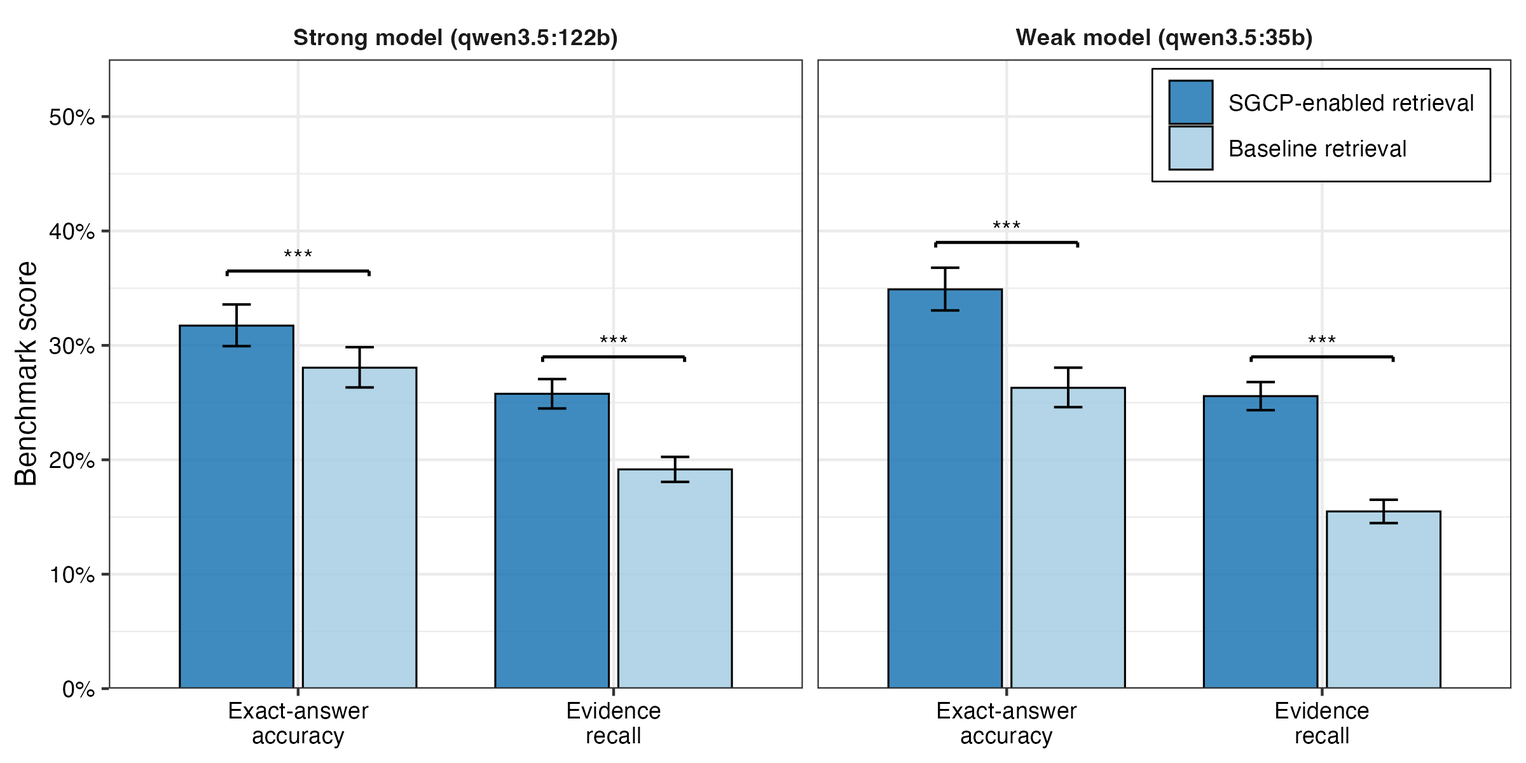
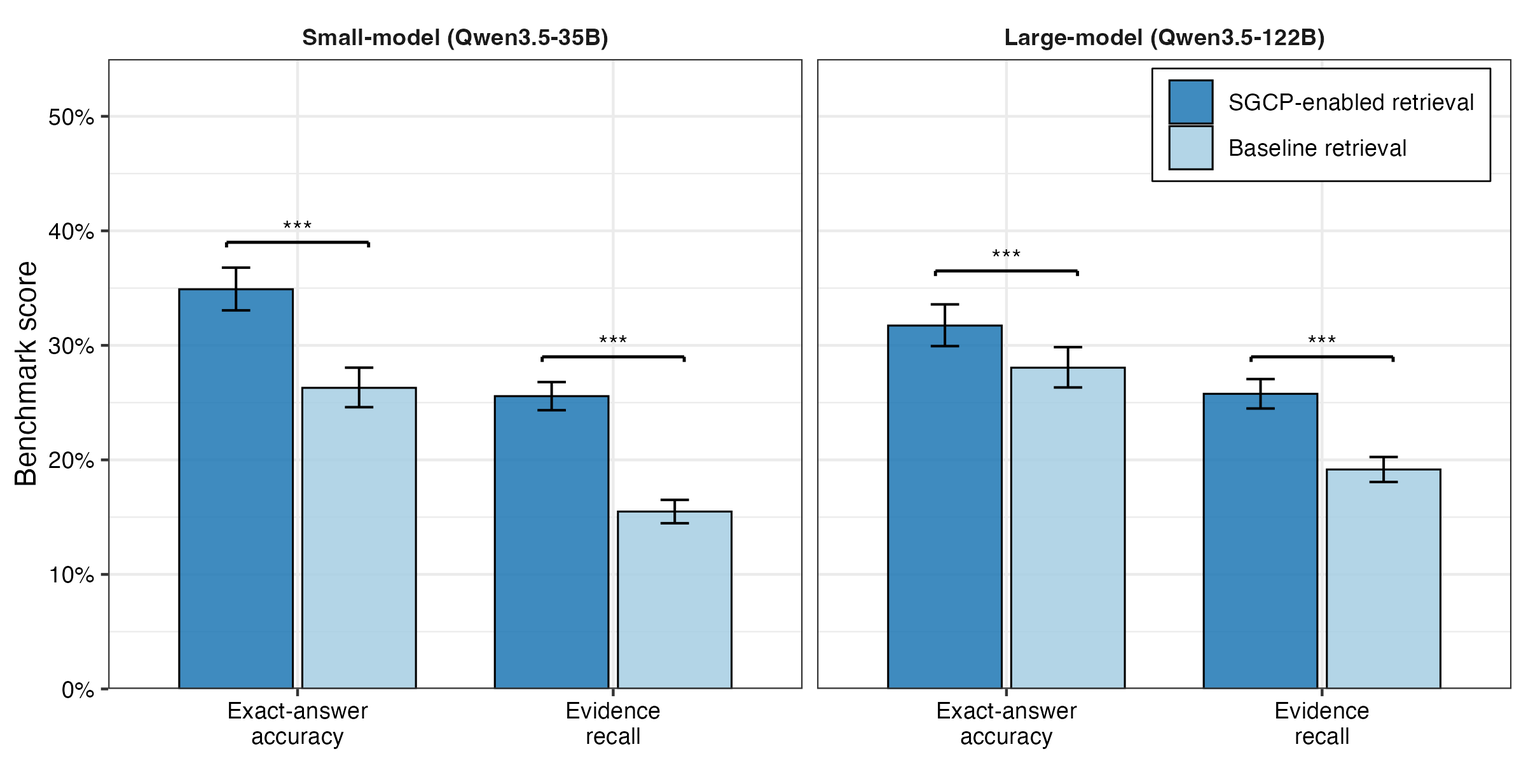
Align benchmark labels with manuscript terminology (#57)
Constraint: Preserve internal condition keys and artifact paths for reproducibility.
Rejected: Rename DTH identifiers and files | Existing benchmark references depend on them.
Confidence: high
Scope-risk: moderate
Directive: Regenerate and commit synchronized figure artifacts when changing display labels.
Tested: R parse checks; SVG XML validation; PNG integrity checks; git diff --check.
Not-tested: Full benchmark figure regeneration from raw inputs.

diff --git a/benchmarks/dth/results/dth_yes_no_qwen397b_cloud_methods_results.md b/benchmarks/dth/results/dth_yes_no_qwen397b_cloud_methods_results.md
@@ -1,10 +1,10 @@
 ---
 academic_writer_brief:
   section_scope: Methods, Results, and Discussion
-  target_use: manuscript draft for DTH activation benchmarking
+  target_use: manuscript draft for TRG activation benchmarking
   disease: breast cancer
   benchmark_model: qwen3.5:397b-cloud
-  benchmark_conditions: DTH-guided (DTH_yes) vs Baseline (DTH_no)
+  benchmark_conditions: TRG-guided (DTH_yes) vs Baseline (DTH_no)
   valid_runs_per_condition: 20
   judge_models:
     - openai:gpt-5.4
@@ -30,25 +30,25 @@ run_reference_layers:
 approval_status: direct_draft_requested_by_user
 ---
 
-# DTH Skill Activation Benchmark: Methods, Results, and Discussion Draft
+# Target Recommendation Guidance Activation Benchmark: Methods, Results, and Discussion Draft
 
 ## Methods
 
-### Breast cancer drug-target hypothesis-generation benchmark
+### Breast cancer follow-up recommendation benchmark
 
-We evaluated whether explicit activation of a drug-target-hypothesis (DTH) interpretation skill improved hypothesis-generation quality in a breast cancer drug-target assessment workflow. The benchmark used a fixed breast cancer evidence package containing prioritized target candidates, ligand-receptor candidates, malignant-cell pair evidence, gene-level target evidence, Open Targets target-disease evidence, known-drug annotations, and hypothesis-validation metadata. The featured target set used by the hypothesis writer comprised ERBB3, EPHB4, ERBB2, INSR, EFNB2, NECTIN4, and LAMA5.
+We evaluated whether explicit activation of the Target Recommendation Guidance (TRG) skill improved follow-up recommendation quality in a breast cancer drug-target assessment workflow. The benchmark used a fixed breast cancer evidence package containing prioritized target candidates, ligand-receptor candidates, malignant-cell pair evidence, gene-level target evidence, Open Targets target-disease evidence, known-drug annotations, and recommendation-validation metadata. The featured target set used by the Target Recommender comprised ERBB3, EPHB4, ERBB2, INSR, EFNB2, NECTIN4, and LAMA5.
 
-Each run required the hypothesis writer to generate a valid hypothesis report from evidence already available in the input package. The report schema required 4-6 retained recommendations, coverage of the featured genes, at least one retained recommendation in each of four categories (Mechanism of Action, Therapeutic Strategy, Cross-Target Interaction, and Novel Pathway), evidence references restricted to loaded files, and cautious falsifiable predictions rather than clinical efficacy claims.
+Each run required the Target Recommender to generate a valid recommendation report from evidence already available in the input package. The report schema required 4-6 retained recommendations, coverage of the featured genes, at least one retained recommendation in each of four categories (Mechanism of Action, Therapeutic Strategy, Cross-Target Interaction, and Novel Pathway), evidence references restricted to loaded files, and cautious falsifiable predictions rather than clinical efficacy claims.
 
-### Controlled DTH activation contrast
+### Controlled TRG activation contrast
 
-We compared two prompt conditions using the same model, source evidence, schema contract, save gate, and retry policy. In the Baseline condition (DTH_no), the hypothesis writer received only a minimal operational contract specifying allowed evidence-loading, reference-validation, and report-saving tools. The prompt explicitly stated that no skill guide was available and prohibited skill-file reads. In the DTH-guided condition (DTH_yes), the same minimal operational contract was used, but the writer was required to read exactly the DTH skill guide before drafting recommendations. Thus, the comparison isolated the effect of making the DTH interpretation guide available and mandatory while keeping the base prompt and output contract otherwise matched.
+We compared two prompt conditions using the same model, source evidence, schema contract, save gate, and retry policy. In the Baseline condition (DTH_no), the Target Recommender received only a minimal operational contract specifying allowed evidence-loading, reference-validation, and report-saving tools. The prompt explicitly stated that no skill guide was available and prohibited skill-file reads. In the TRG-guided condition (DTH_yes), the same minimal operational contract was used, but the Target Recommender was required to read exactly the TRG skill before drafting recommendations. Thus, the comparison isolated the effect of making Target Recommendation Guidance available and mandatory while keeping the base prompt and output contract otherwise matched.
 
-All benchmark generations were performed with qwen3.5:397b-cloud through the local Ollama interface. The analysis targeted 20 valid runs per condition. Runs were considered valid only when the process returned code 0, the generated hypothesis report passed schema and reference validation, the activation trace was valid, and no deterministic host-side fallback output was used. Initial failed exploratory runs were excluded from the valid-only analysis, and additional runs were collected until both conditions reached 20 valid outputs.
+All benchmark generations were performed with qwen3.5:397b-cloud through the local Ollama interface. The analysis targeted 20 valid runs per condition. Runs were considered valid only when the process returned code 0, the generated recommendation report passed schema and reference validation, the activation trace was valid, and no deterministic host-side fallback output was used. Initial failed exploratory runs were excluded from the valid-only analysis, and additional runs were collected until both conditions reached 20 valid outputs.
 
 ### Activation and quality auditing
 
-For each valid run, we recorded whether the DTH skill was activated, whether host fallback was used, the evidence-coverage percentage, number of retained hypotheses, number of evidence references, retry-attempt count, and lexical evidence-use indicators. These indicators included Stage 1 evidence mentions, Stage 3 evidence mentions, Open Targets mentions, malignant-cell mentions, statements that explicitly marked findings as "not yet established", and causal-language usage. Category counts were aggregated across retained recommendations.
+For each valid run, we recorded whether the TRG skill was activated, whether host fallback was used, the evidence-coverage percentage, number of retained recommendations, number of evidence references, retry-attempt count, and lexical evidence-use indicators. These indicators included Stage 1 evidence mentions, Stage 3 evidence mentions, Open Targets mentions, malignant-cell mentions, statements that explicitly marked findings as "not yet established", and causal-language usage. Category counts were aggregated across retained recommendations.
 
 ### Blinded dual-judge evaluation
 
@@ -62,51 +62,51 @@ Automated benchmark metrics were summarized over valid runs only. Evidence cover
 
 ## Results
 
-### The DTH contrast produced balanced valid output sets
+### The TRG contrast produced balanced valid output sets
 
-The final benchmark contained 20 valid DTH-guided runs and 20 valid Baseline runs. All 40 included runs returned code 0, passed hypothesis validation, and had valid activation traces. DTH activation separated cleanly by condition: DTH-guided activated the DTH skill in 20 of 20 valid runs, whereas Baseline activated it in 0 of 20 valid runs. Host fallback was not used in any valid run. Native retry attempts were more concentrated at lower retry counts in DTH-guided (0 retries: 7 runs; 1 retry: 8; 2 retries: 5) than in Baseline (0, 1, 2, and 3 retries: 5 runs each).
+The final benchmark contained 20 valid TRG-guided runs and 20 valid Baseline runs. All 40 included runs returned code 0, passed recommendation validation, and had valid activation traces. TRG activation separated cleanly by condition: TRG-guided activated the TRG skill in 20 of 20 valid runs, whereas Baseline activated it in 0 of 20 valid runs. Host fallback was not used in any valid run. Native retry attempts were more concentrated at lower retry counts in TRG-guided (0 retries: 7 runs; 1 retry: 8; 2 retries: 5) than in Baseline (0, 1, 2, and 3 retries: 5 runs each).
 
 **Table 1. Valid-run benchmark summary.**
 
-| Condition | Valid runs | Validation passed | DTH activated | Host fallback used | Mean evidence coverage | Mean retained hypotheses | Mean evidence refs |
+| Condition | Valid runs | Validation passed | TRG activated | Host fallback used | Mean evidence coverage | Mean retained recommendations | Mean evidence refs |
 |---|---:|---:|---:|---:|---:|---:|---:|
-| DTH-guided (DTH_yes) | 20/20 | 20/20 | 20/20 | 0/20 | 78.53 | 6.0 | 21.00 |
+| TRG-guided (DTH_yes) | 20/20 | 20/20 | 20/20 | 0/20 | 78.53 | 6.0 | 21.00 |
 | Baseline (DTH_no) | 20/20 | 20/20 | 0/20 | 0/20 | 74.41 | 5.8 | 20.35 |
 
 These data show that the benchmark successfully created a controlled activation contrast rather than a mixed or partially activated comparison.
 
-### DTH activation increased evidence-boundary behavior
+### TRG activation increased evidence-boundary behavior
 
-DTH-guided generation produced numerically higher mean evidence coverage than Baseline generation (78.53 versus 74.41), while both conditions had the same median evidence coverage (76.47) (Figure 3A). This coverage difference was borderline under the paired Wilcoxon signed-rank test (mean paired difference, +4.12 percentage points; P = 0.051). DTH-guided generation also produced more explicit references to evidence layers: mean Stage 1 mentions increased from 56.75 in Baseline to 68.60 in DTH-guided outputs, mean Stage 3 mentions increased from 21.75 to 29.35, and mean Open Targets mentions increased from 0.90 to 5.65. DTH-guided generation also produced more malignant-cell mentions (40.30 versus 29.95).
+TRG-guided generation produced numerically higher mean evidence coverage than Baseline generation (78.53 versus 74.41), while both conditions had the same median evidence coverage (76.47) (Figure 3A). This coverage difference was borderline under the paired Wilcoxon signed-rank test (mean paired difference, +4.12 percentage points; P = 0.051). TRG-guided generation also produced more explicit references to evidence layers: mean Stage 1 mentions increased from 56.75 in Baseline to 68.60 in TRG-guided outputs, mean Stage 3 mentions increased from 21.75 to 29.35, and mean Open Targets mentions increased from 0.90 to 5.65. TRG-guided generation also produced more malignant-cell mentions (40.30 versus 29.95).
 
-![Figure 3A. Evidence coverage across DTH-guided and baseline benchmark runs.](../figures/Fig3A_DTH_EvidenceCoverage.svg)
+![Figure 3A. Evidence coverage across TRG-guided and baseline benchmark runs.](../figures/Fig3A_DTH_EvidenceCoverage.svg)
 
-The largest automated separation was in boundary setting. DTH-guided outputs averaged 10.30 "not yet established" statements per valid report, whereas Baseline outputs averaged 0.00. Conversely, Baseline outputs used more causal language (3.60 versus 1.40 mean mentions). Category coverage remained broadly similar across conditions: DTH-guided generation produced 26 Cross-Target Interaction, 33 Mechanism of Action, 26 Novel Pathway, and 35 Therapeutic Strategy recommendations across valid runs, compared with 26, 35, 23, and 32 for Baseline generation. Thus, DTH activation did not simply increase output volume; it shifted reports toward more explicit evidence-layer citation and stronger separation between supported observations and unestablished causal interpretation.
+The largest automated separation was in boundary setting. TRG-guided outputs averaged 10.30 "not yet established" statements per valid report, whereas Baseline outputs averaged 0.00. Conversely, Baseline outputs used more causal language (3.60 versus 1.40 mean mentions). Category coverage remained broadly similar across conditions: TRG-guided generation produced 26 Cross-Target Interaction, 33 Mechanism of Action, 26 Novel Pathway, and 35 Therapeutic Strategy recommendations across valid runs, compared with 26, 35, 23, and 32 for Baseline generation. Thus, TRG activation did not simply increase output volume; it shifted reports toward more explicit evidence-layer citation and stronger separation between supported observations and unestablished causal interpretation.
 
-### Blinded judges favored DTH-guided outputs, with model-dependent strength
+### Blinded judges favored TRG-guided outputs, with model-dependent strength
 
-The gpt-5.4 judge favored DTH-guided outputs in 18 of 20 pairs (90.0%), Baseline outputs in 1 pair (5.0%), and one tie (5.0%; non-tie sign-test P = 7.63e-05). The claude-sonnet-4-6 judge also favored DTH-guided outputs directionally, but more conservatively, selecting DTH-guided outputs in 11 pairs (55.0%), Baseline outputs in 5 pairs (25.0%), and ties in 4 pairs (20.0%; non-tie P = 0.210).
+The gpt-5.4 judge favored TRG-guided outputs in 18 of 20 pairs (90.0%), Baseline outputs in 1 pair (5.0%), and one tie (5.0%; non-tie sign-test P = 7.63e-05). The claude-sonnet-4-6 judge also favored TRG-guided outputs directionally, but more conservatively, selecting TRG-guided outputs in 11 pairs (55.0%), Baseline outputs in 5 pairs (25.0%), and ties in 4 pairs (20.0%; non-tie P = 0.210).
 
 **Table 2. Blinded judge summary across two evaluators.**
 
-| Judge | DTH-guided wins | Baseline wins | Ties | Mean score, DTH-guided | Mean score, Baseline | Delta | Non-tie sign-test P |
+| Judge | TRG-guided wins | Baseline wins | Ties | Mean score, TRG-guided | Mean score, Baseline | Delta | Non-tie sign-test P |
 |---|---:|---:|---:|---:|---:|---:|---:|
 | gpt-5.4 | 18 | 1 | 1 | 19.60 | 14.25 | +5.35 | 7.63e-05 |
 | claude-sonnet-4-6 | 11 | 5 | 4 | 18.05 | 16.25 | +1.80 | 0.210 |
 
-After averaging total scores across the two judges within each pair and applying the two-point win threshold, DTH-guided outputs were preferred in 14 of 20 paired comparisons, Baseline outputs in 1, and 5 pairs were ties. Considering all 40 judge-pair score comparisons, the DTH-guided score was higher in 30, lower in 6, and equal in 4, with a mean score delta of +3.58 and median delta of +4.00. Judge-level preference shares showed the same direction but different magnitudes across evaluators: DTH-guided outputs were preferred in 90% and 55% of pairs by gpt-5.4 and claude-sonnet-4-6, respectively (Supplementary Figure 3E). Thus, the dual-judge panel supported the DTH-guided condition, while also indicating that the effect size depends on the evaluator.
+After averaging total scores across the two judges within each pair and applying the two-point win threshold, TRG-guided outputs were preferred in 14 of 20 paired comparisons, Baseline outputs in 1, and 5 pairs were ties. Considering all 40 judge-pair score comparisons, the TRG-guided score was higher in 30, lower in 6, and equal in 4, with a mean score delta of +3.58 and median delta of +4.00. Judge-level preference shares showed the same direction but different magnitudes across evaluators: TRG-guided outputs were preferred in 90% and 55% of pairs by gpt-5.4 and claude-sonnet-4-6, respectively (Supplementary Figure 3E). Thus, the dual-judge panel supported the TRG-guided condition, while also indicating that the effect size depends on the evaluator.
 
 ![Supplementary Figure 3E. Blind-judge preference shares across evaluators.](../figures/FigS3E_DTH_BlindJudgeWinRate.svg)
 
-### The DTH advantage was concentrated in claim-boundary restraint
+### The TRG advantage was concentrated in claim-boundary restraint
 
-Rubric-axis means indicated that the largest and most consistent DTH-guided advantage was in claim-boundary restraint. After averaging scores across judges within each blinded pair, DTH-guided outputs had a higher mean claim-boundary restraint score than Baseline outputs (4.78 versus 2.88; mean paired difference, +1.90; paired Wilcoxon P = 8.13e-05) (Figure 3B). The judge-stratified DTH-guided minus Baseline difference on this axis was +2.15 for gpt-5.4 and +1.65 for claude-sonnet-4-6. This axis was significant for both judges under paired Wilcoxon signed-rank sensitivity tests after Bonferroni correction (adjusted P < 0.001 for each judge), and the judge-stratified display confirmed that the direction of the effect was consistent across both evaluators (Supplementary Figure 3D). DTH-guided outputs also reduced unsupported-claim penalties across judges and improved evidence grounding, although the magnitude varied by evaluator. In contrast, biological plausibility, therapeutic relevance, and specificity/testability showed smaller or inconsistent differences.
+Rubric-axis means indicated that the largest and most consistent TRG-guided advantage was in claim-boundary restraint. After averaging scores across judges within each blinded pair, TRG-guided outputs had a higher mean claim-boundary restraint score than Baseline outputs (4.78 versus 2.88; mean paired difference, +1.90; paired Wilcoxon P = 8.13e-05) (Figure 3B). The judge-stratified TRG-guided minus Baseline difference on this axis was +2.15 for gpt-5.4 and +1.65 for claude-sonnet-4-6. This axis was significant for both judges under paired Wilcoxon signed-rank sensitivity tests after Bonferroni correction (adjusted P < 0.001 for each judge), and the judge-stratified display confirmed that the direction of the effect was consistent across both evaluators (Supplementary Figure 3D). TRG-guided outputs also reduced unsupported-claim penalties across judges and improved evidence grounding, although the magnitude varied by evaluator. In contrast, biological plausibility, therapeutic relevance, and specificity/testability showed smaller or inconsistent differences.
 
-![Figure 3B. Blind-judge claim-boundary restraint scores for DTH-guided and baseline outputs.](../figures/Fig3B_DTH_BlindJudgeRigor.svg)
+![Figure 3B. Blind-judge claim-boundary restraint scores for TRG-guided and baseline outputs.](../figures/Fig3B_DTH_BlindJudgeRigor.svg)
 
 ![Supplementary Figure 3D. Judge-stratified claim-boundary restraint sensitivity analysis.](../figures/FigS3D_DTH_BlindJudgeRigorByJudge.svg)
 
-**Table 3. Judge-axis deltas for DTH-guided minus Baseline.**
+**Table 3. Judge-axis deltas for TRG-guided minus Baseline.**
 
 | Judge | Evidence grounding | Biological plausibility | Therapeutic relevance | Claim-boundary restraint | Specificity/testability | Unsupported-claim penalty |
 |---|---:|---:|---:|---:|---:|---:|
@@ -114,37 +114,37 @@ Rubric-axis means indicated that the largest and most consistent DTH-guided adva
 | claude-sonnet-4-6 | +0.45 | -0.20 | -0.30 | +1.65 | -0.20 | +0.40 |
 | Mean across judges | +0.75 | +0.05 | -0.07 | +1.90 | -0.07 | +0.65 |
 
-This axis-level pattern suggests that the DTH skill most strongly improved scientific restraint and evidence-grounded interpretation, rather than uniformly increasing every quality dimension. Baseline outputs sometimes retained slightly more mechanistic or assay-level specificity, but this came with more unsupported causal framing and weaker separation between observed evidence and unestablished mechanistic claims.
+This axis-level pattern suggests that the TRG skill most strongly improved scientific restraint and evidence-grounded interpretation, rather than uniformly increasing every quality dimension. Baseline outputs sometimes retained slightly more mechanistic or assay-level specificity, but this came with more unsupported causal framing and weaker separation between observed evidence and unestablished mechanistic claims.
 
 ## Figure Legends
 
 ### Main Figures
 
-**Figure 3A: DTH-guided generation modestly increases evidence coverage.** Mean evidence coverage across 20 valid breast cancer hypothesis-generation runs per condition. Bars show mean coverage and error bars show the standard error of the mean. DTH-guided denotes the DTH_yes condition, in which the writer was required to read the drug-target-hypothesis guide before report generation; Baseline denotes the DTH_no condition, in which no skill guide was available. Evidence coverage was compared with a paired Wilcoxon signed-rank test over matched run order. The difference was borderline (mean paired difference, +4.12 percentage points; P = 0.051), and no significance marker is shown.
+**Figure 3A: TRG-guided generation modestly increases evidence coverage.** Mean evidence coverage across 20 valid breast cancer recommendation-generation runs per condition. Bars show mean coverage and error bars show the standard error of the mean. TRG-guided denotes the DTH_yes condition, in which the Target Recommender was required to read the Target Recommendation Guidance skill before report generation; Baseline denotes the DTH_no condition, in which no skill guide was available. Evidence coverage was compared with a paired Wilcoxon signed-rank test over matched run order. The difference was borderline (mean paired difference, +4.12 percentage points; P = 0.051), and no significance marker is shown.
 
-**Figure 3B: DTH-guided generation improves claim-boundary restraint in blinded judging.** Mean claim-boundary restraint scores from 20 blinded DTH-guided versus Baseline output pairs. For the main comparison, claim-boundary restraint scores from gpt-5.4 and claude-sonnet-4-6 were averaged within each pair before statistical testing. Bars show mean scores and error bars show the standard error of the mean across paired comparisons. Scores range from 0 to 5, with higher values indicating stronger separation between observed evidence, proposed mechanism, and unestablished causal or clinical claims. The DTH-guided condition showed higher claim-boundary restraint than Baseline (mean paired difference, +1.90; paired Wilcoxon signed-rank test, P = 8.13e-05). Asterisks indicate P < 0.001.
+**Figure 3B: TRG-guided generation improves claim-boundary restraint in blinded judging.** Mean claim-boundary restraint scores from 20 blinded TRG-guided versus Baseline output pairs. For the main comparison, claim-boundary restraint scores from gpt-5.4 and claude-sonnet-4-6 were averaged within each pair before statistical testing. Bars show mean scores and error bars show the standard error of the mean across paired comparisons. Scores range from 0 to 5, with higher values indicating stronger separation between observed evidence, proposed mechanism, and unestablished causal or clinical claims. The TRG-guided condition showed higher claim-boundary restraint than Baseline (mean paired difference, +1.90; paired Wilcoxon signed-rank test, P = 8.13e-05). Asterisks indicate P < 0.001.
 
 ### Supplementary Figures
 
-**Supplementary Figure 3D: The claim-boundary restraint advantage is consistent across blinded judges.** Judge-stratified claim-boundary restraint scores for the same 20 paired DTH-guided versus Baseline comparisons. Bars show mean scores and error bars show the standard error of the mean within each judge. Dark blue denotes DTH-guided outputs and light blue denotes Baseline outputs. Scores range from 0 to 5, with higher values indicating stronger restraint around causal and clinical claims. DTH-guided minus Baseline differences were +2.15 for gpt-5.4 and +1.65 for claude-sonnet-4-6. Paired Wilcoxon signed-rank tests were performed separately for each judge and Bonferroni-corrected across the two judges; all adjusted P values were <0.001. Asterisks indicate adjusted P < 0.001.
+**Supplementary Figure 3D: The claim-boundary restraint advantage is consistent across blinded judges.** Judge-stratified claim-boundary restraint scores for the same 20 paired TRG-guided versus Baseline comparisons. Bars show mean scores and error bars show the standard error of the mean within each judge. Dark blue denotes TRG-guided outputs and light blue denotes Baseline outputs. Scores range from 0 to 5, with higher values indicating stronger restraint around causal and clinical claims. TRG-guided minus Baseline differences were +2.15 for gpt-5.4 and +1.65 for claude-sonnet-4-6. Paired Wilcoxon signed-rank tests were performed separately for each judge and Bonferroni-corrected across the two judges; all adjusted P values were <0.001. Asterisks indicate adjusted P < 0.001.
 
-**Supplementary Figure 3E: Blind-judge preference shares favor DTH-guided reports across evaluators.** Stacked bar plots show the fraction of 20 blinded pairwise comparisons assigned to DTH-guided, tie, or Baseline by each judge. Segment labels indicate the number of pairs in each category. gpt-5.4 selected DTH-guided outputs in 18 of 20 pairs, ties in 1, and Baseline outputs in 1; claude-sonnet-4-6 selected DTH-guided outputs in 11 of 20 pairs, ties in 4, and Baseline outputs in 5. Pairwise preferences were assigned from blinded total-score differences using a two-point win threshold, with smaller absolute differences counted as ties.
+**Supplementary Figure 3E: Blind-judge preference shares favor TRG-guided reports across evaluators.** Stacked bar plots show the fraction of 20 blinded pairwise comparisons assigned to TRG-guided, tie, or Baseline by each judge. Segment labels indicate the number of pairs in each category. gpt-5.4 selected TRG-guided outputs in 18 of 20 pairs, ties in 1, and Baseline outputs in 1; claude-sonnet-4-6 selected TRG-guided outputs in 11 of 20 pairs, ties in 4, and Baseline outputs in 5. Pairwise preferences were assigned from blinded total-score differences using a two-point win threshold, with smaller absolute differences counted as ties.
 
 ## Discussion
 
-This benchmark tested a focused question in agentic therapeutic hypothesis generation: whether a domain-specific interpretation skill changes the quality of an LLM-generated drug-target hypothesis report when the underlying evidence, output schema, save gate, and base operational prompt are held constant. Across 20 valid paired breast cancer runs, activating the DTH skill did not merely increase the amount of generated text or the number of retained recommendations. Instead, it shifted the writer toward a more evidence-bounded style of reasoning. DTH-guided reports more frequently cited Stage 1, Stage 3, Open Targets, and malignant-cell evidence layers; used fewer unsupported causal claims; and explicitly marked candidate mechanisms as not yet established. The dual-judge blinded evaluation supported this interpretation: both judges favored DTH-guided outputs on average, and the most consistent advantage was claim-boundary restraint rather than generic biological plausibility or testability.
+This benchmark tested a focused question in agentic therapeutic recommendation generation: whether a domain-specific guidance skill changes the quality of an LLM-generated drug-target recommendation report when the underlying evidence, output schema, save gate, and base operational prompt are held constant. Across 20 valid paired breast cancer runs, activating the TRG skill did not merely increase the amount of generated text or the number of retained recommendations. Instead, it shifted the Target Recommender toward a more evidence-bounded style of reasoning. TRG-guided reports more frequently cited Stage 1, Stage 3, Open Targets, and malignant-cell evidence layers; used fewer unsupported causal claims; and explicitly marked candidate mechanisms as not yet established. The dual-judge blinded evaluation supported this interpretation: both judges favored TRG-guided outputs on average, and the most consistent advantage was claim-boundary restraint rather than generic biological plausibility or testability.
 
-These findings are consistent with a broader design principle emerging from recent biomedical agent systems: agent performance depends not only on model scale or tool access, but also on explicit control of intermediate reasoning, context, and verification. SpatialAgent and STAgent emphasize the ability of autonomous agents to orchestrate biological analysis workflows and synthesize interpretable scientific narratives from spatial data [1,2]. SPARK similarly frames agentic reasoning as a way to generate transparent biological concepts while controlling for hallucination through task framing and review steps [3]. MEDEA extends this principle to therapeutic discovery by combining planning, tool-grounded execution, literature assessment, and evidence reconciliation [4]. The present benchmark isolates a narrower mechanism within that larger design space. Rather than evaluating a full agent against a baseline system, it shows that a single loaded interpretation guide can alter the epistemic character of the final hypothesis report, especially by reducing overclaiming and making uncertainty visible.
+These findings are consistent with a broader design principle emerging from recent biomedical agent systems: agent performance depends not only on model scale or tool access, but also on explicit control of intermediate reasoning, context, and verification. SpatialAgent and STAgent emphasize the ability of autonomous agents to orchestrate biological analysis workflows and synthesize interpretable scientific narratives from spatial data [1,2]. SPARK similarly frames agentic reasoning as a way to generate transparent biological concepts while controlling for hallucination through task framing and review steps [3]. MEDEA extends this principle to therapeutic discovery by combining planning, tool-grounded execution, literature assessment, and evidence reconciliation [4]. The present benchmark isolates a narrower mechanism within that larger design space. Rather than evaluating a full agent against a baseline system, it shows that a single loaded guidance skill can alter the epistemic character of the final recommendation report, especially by reducing overclaiming and making uncertainty visible.
 
-The most important implication is that skill activation should not be evaluated only by coverage or throughput. In several development runs, DTH-enabled generation was slower and sometimes less stable than simpler prompting, and the final 20-run benchmark still showed that the primary gain was not a uniform increase across all quality axes. This is a useful distinction. For therapeutic hypothesis generation, a report that covers more evidence files but converts associative evidence into causal or clinical claims can be less scientifically useful than a report that is more cautious, even if less expansive. The DTH skill appears to function as an interpretation guardrail: it encourages the writer to separate observed evidence from proposed mechanism, therapeutic rationale from clinical efficacy, and candidate hypotheses from validated biology. This behavior is particularly relevant for drug-target workflows, where ligand-receptor signals, target-disease associations, and known-drug annotations can easily be over-integrated into claims that exceed the evidence.
+The most important implication is that skill activation should not be evaluated only by coverage or throughput. In several development runs, TRG-enabled generation was slower and sometimes less stable than simpler prompting, and the final 20-run benchmark still showed that the primary gain was not a uniform increase across all quality axes. This is a useful distinction. For therapeutic recommendation generation, a report that covers more evidence files but converts associative evidence into causal or clinical claims can be less scientifically useful than a report that is more cautious, even if less expansive. The TRG skill appears to function as an interpretation guardrail: it encourages the Target Recommender to separate observed evidence from proposed mechanism, therapeutic rationale from clinical efficacy, and candidate recommendations from validated biology. This behavior is particularly relevant for drug-target workflows, where ligand-receptor signals, target-disease associations, and known-drug annotations can easily be over-integrated into claims that exceed the evidence.
 
-The judge results also highlight the importance of multi-evaluator assessment. The gpt-5.4 judge strongly favored DTH-guided outputs, whereas claude-sonnet-4-6 showed the same direction but with a smaller and non-significant preference. This difference does not negate the benchmark signal; instead, it suggests that evaluator choice affects the apparent strength of the result. The two-judge consensus was strongest for claim-boundary restraint and reduced unsupported-claim penalties, which are precisely the axes most aligned with the intended role of the DTH skill. By contrast, small or inconsistent differences in biological plausibility, therapeutic relevance, and specificity/testability indicate that DTH should be described as improving scientific calibration rather than as universally improving every dimension of hypothesis quality.
+The judge results also highlight the importance of multi-evaluator assessment. The gpt-5.4 judge strongly favored TRG-guided outputs, whereas claude-sonnet-4-6 showed the same direction but with a smaller and non-significant preference. This difference does not negate the benchmark signal; instead, it suggests that evaluator choice affects the apparent strength of the result. The two-judge consensus was strongest for claim-boundary restraint and reduced unsupported-claim penalties, which are precisely the axes most aligned with the intended role of the TRG skill. By contrast, small or inconsistent differences in biological plausibility, therapeutic relevance, and specificity/testability indicate that TRG should be described as improving scientific calibration rather than as universally improving every dimension of recommendation quality.
 
-Several limitations should be considered. First, the benchmark used one disease setting, one evidence package, and one generator model, qwen3.5:397b-cloud. Additional diseases, evidence structures, and model families will be needed to determine how broadly the DTH effect generalizes. Second, the analysis was valid-output only: initial failed exploratory runs were excluded, and all reported comparisons required successful schema validation, valid activation traces, and no host-side deterministic fallback. This design cleanly isolates output quality among successful runs, but it does not measure full production reliability. Third, the contrast used a deliberately minimal operational prompt to isolate DTH skill activation. This makes the causal contrast clearer, but production prompts may contain overlapping guidance that reduces the visible separation between DTH_yes and DTH_no. Fourth, the blinded evaluators were LLM judges rather than domain-expert therapeutic biologists. Although the rubric was structured and judge outputs were schema-validated, human expert review and experimental validation remain necessary before interpreting any generated target hypothesis as biologically actionable.
+Several limitations should be considered. First, the benchmark used one disease setting, one evidence package, and one generator model, qwen3.5:397b-cloud. Additional diseases, evidence structures, and model families will be needed to determine how broadly the TRG effect generalizes. Second, the analysis was valid-output only: initial failed exploratory runs were excluded, and all reported comparisons required successful schema validation, valid activation traces, and no host-side deterministic fallback. This design cleanly isolates output quality among successful runs, but it does not measure full production reliability. Third, the contrast used a deliberately minimal operational prompt to isolate TRG skill activation. This makes the causal contrast clearer, but production prompts may contain overlapping guidance that reduces the visible separation between DTH_yes and DTH_no. Fourth, the blinded evaluators were LLM judges rather than domain-expert therapeutic biologists. Although the rubric was structured and judge outputs were schema-validated, human expert review and experimental validation remain necessary before interpreting any generated target recommendation as biologically actionable.
 
-Future work should extend this benchmark in three directions. First, the same DTH-guided versus Baseline contrast should be repeated under the current production prompt to test whether the skill continues to improve claim calibration when the base writer already contains stronger operational guidance. Second, the benchmark should be expanded across model scales, including smaller local models and stronger cloud models, to distinguish skill effects from model-capability effects. Third, downstream validation should move beyond report-level judging toward perturbation-centered evidence: whether DTH-guided hypotheses yield more precise experimental predictions, better target prioritization, or clearer falsification plans. In production settings, failure handling should also remain explicit. Native retries can preserve the LLM-written hypothesis path, whereas deterministic fallback should be marked as degraded recovery rather than counted as a successful DTH output.
+Future work should extend this benchmark in three directions. First, the same TRG-guided versus Baseline contrast should be repeated under the current production prompt to test whether the skill continues to improve claim calibration when the Target Recommender already contains stronger operational guidance. Second, the benchmark should be expanded across model scales, including smaller local models and stronger cloud models, to distinguish skill effects from model-capability effects. Third, downstream validation should move beyond report-level judging toward perturbation-centered evidence: whether TRG-guided recommendations yield more precise experimental predictions, better target prioritization, or clearer falsification plans. In production settings, failure handling should also remain explicit. Native retries can preserve the LLM-written recommendation path, whereas deterministic fallback should be marked as degraded recovery rather than counted as a successful TRG output.
 
-Overall, this benchmark supports the view that skill loading can improve biomedical agent outputs by changing how evidence is interpreted, not simply by adding more information. The DTH skill made the hypothesis writer more conservative in the scientifically useful sense: it increased evidence-layer awareness, reduced unsupported causal framing, and made the boundary between observation and hypothesis more explicit. This provides a concrete, measurable mechanism by which modular domain skills can improve agentic therapeutic discovery workflows.
+Overall, this benchmark supports the view that skill loading can improve biomedical agent outputs by changing how evidence is interpreted, not simply by adding more information. The TRG skill made the Target Recommender more conservative in the scientifically useful sense: it increased evidence-layer awareness, reduced unsupported causal framing, and made the boundary between observation and recommendation more explicit. This provides a concrete, measurable mechanism by which modular domain skills can improve agentic therapeutic discovery workflows.
 
 ### Source and reproducibility artifacts
 
